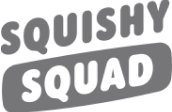
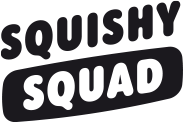
updated brands

diff --git a/src/homepage/brands/brands.css b/src/homepage/brands/brands.css
@@ -22,13 +22,27 @@
 }
 
 .squishy-squad {
+    filter: invert(31%) sepia(23%) saturate(12%) hue-rotate(11deg) brightness(102%) contrast(87%);
     max-width: 86px;
-    max-height: 56px
+    max-height: 56px;
+    transition: all 0.3s ease-out;
+}
+
+.squishy-squad:hover {
+    transition: all 0.3s ease-in;
+    filter: none;
 }
 
 .dobies {
+    filter: invert(31%) sepia(23%) saturate(12%) hue-rotate(11deg) brightness(102%) contrast(87%);
     max-width: 105px;
-    max-height: 41px
+    max-height: 41px;
+    transition: all 0.3s ease-out;
+}
+
+.dobies:hover {
+    transition: all 0.3s ease-in;
+    filter: none;
 }
 
 .partners-row {
